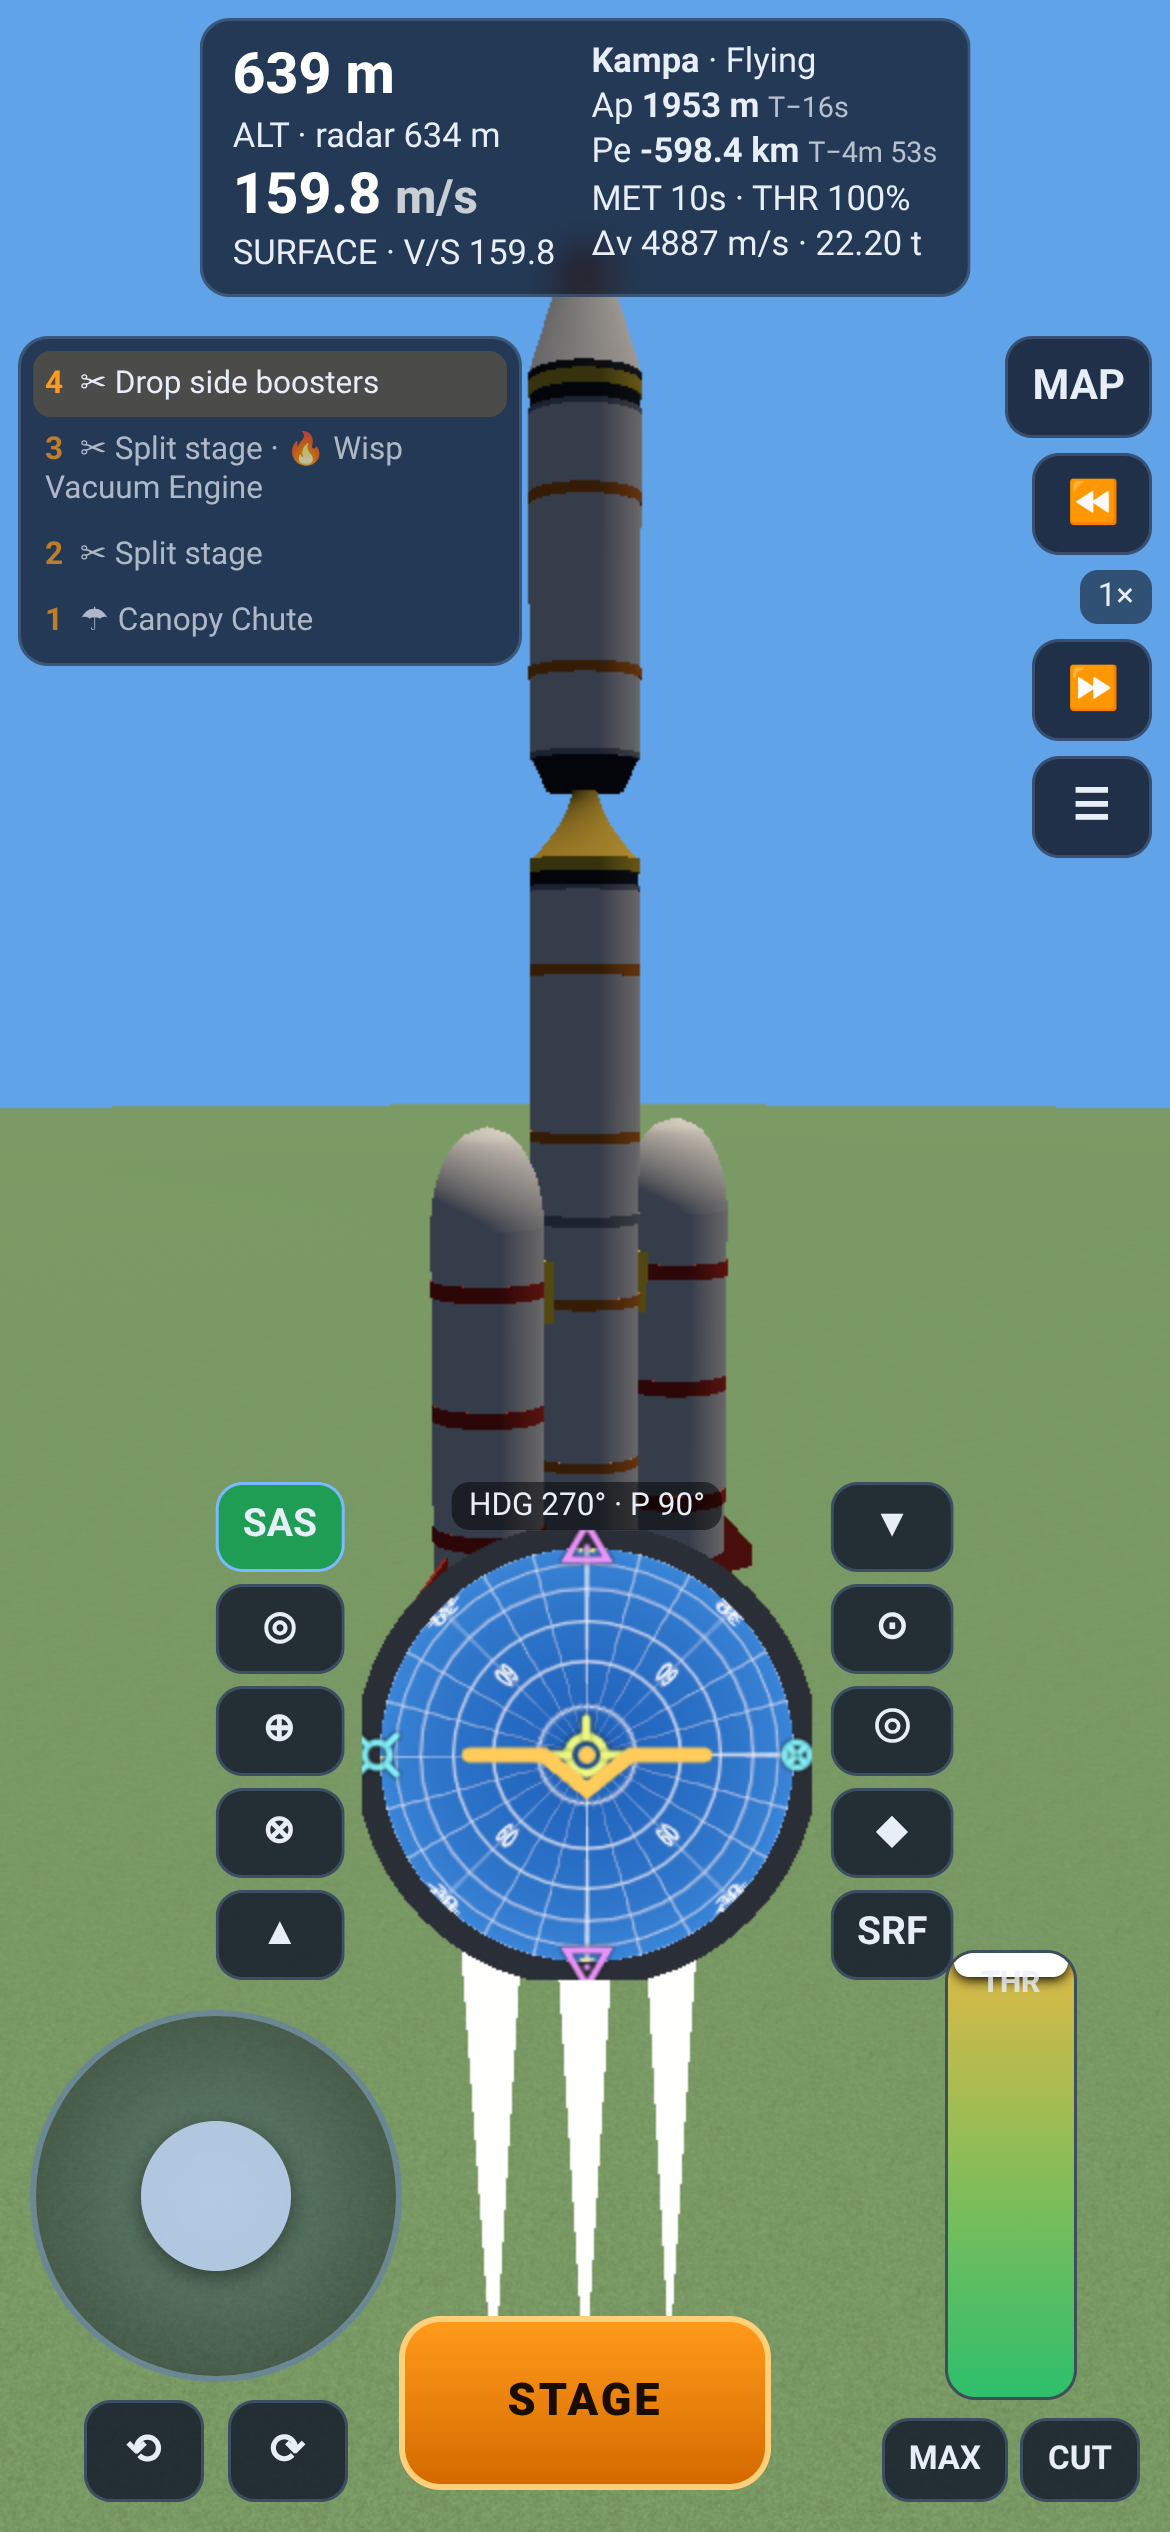
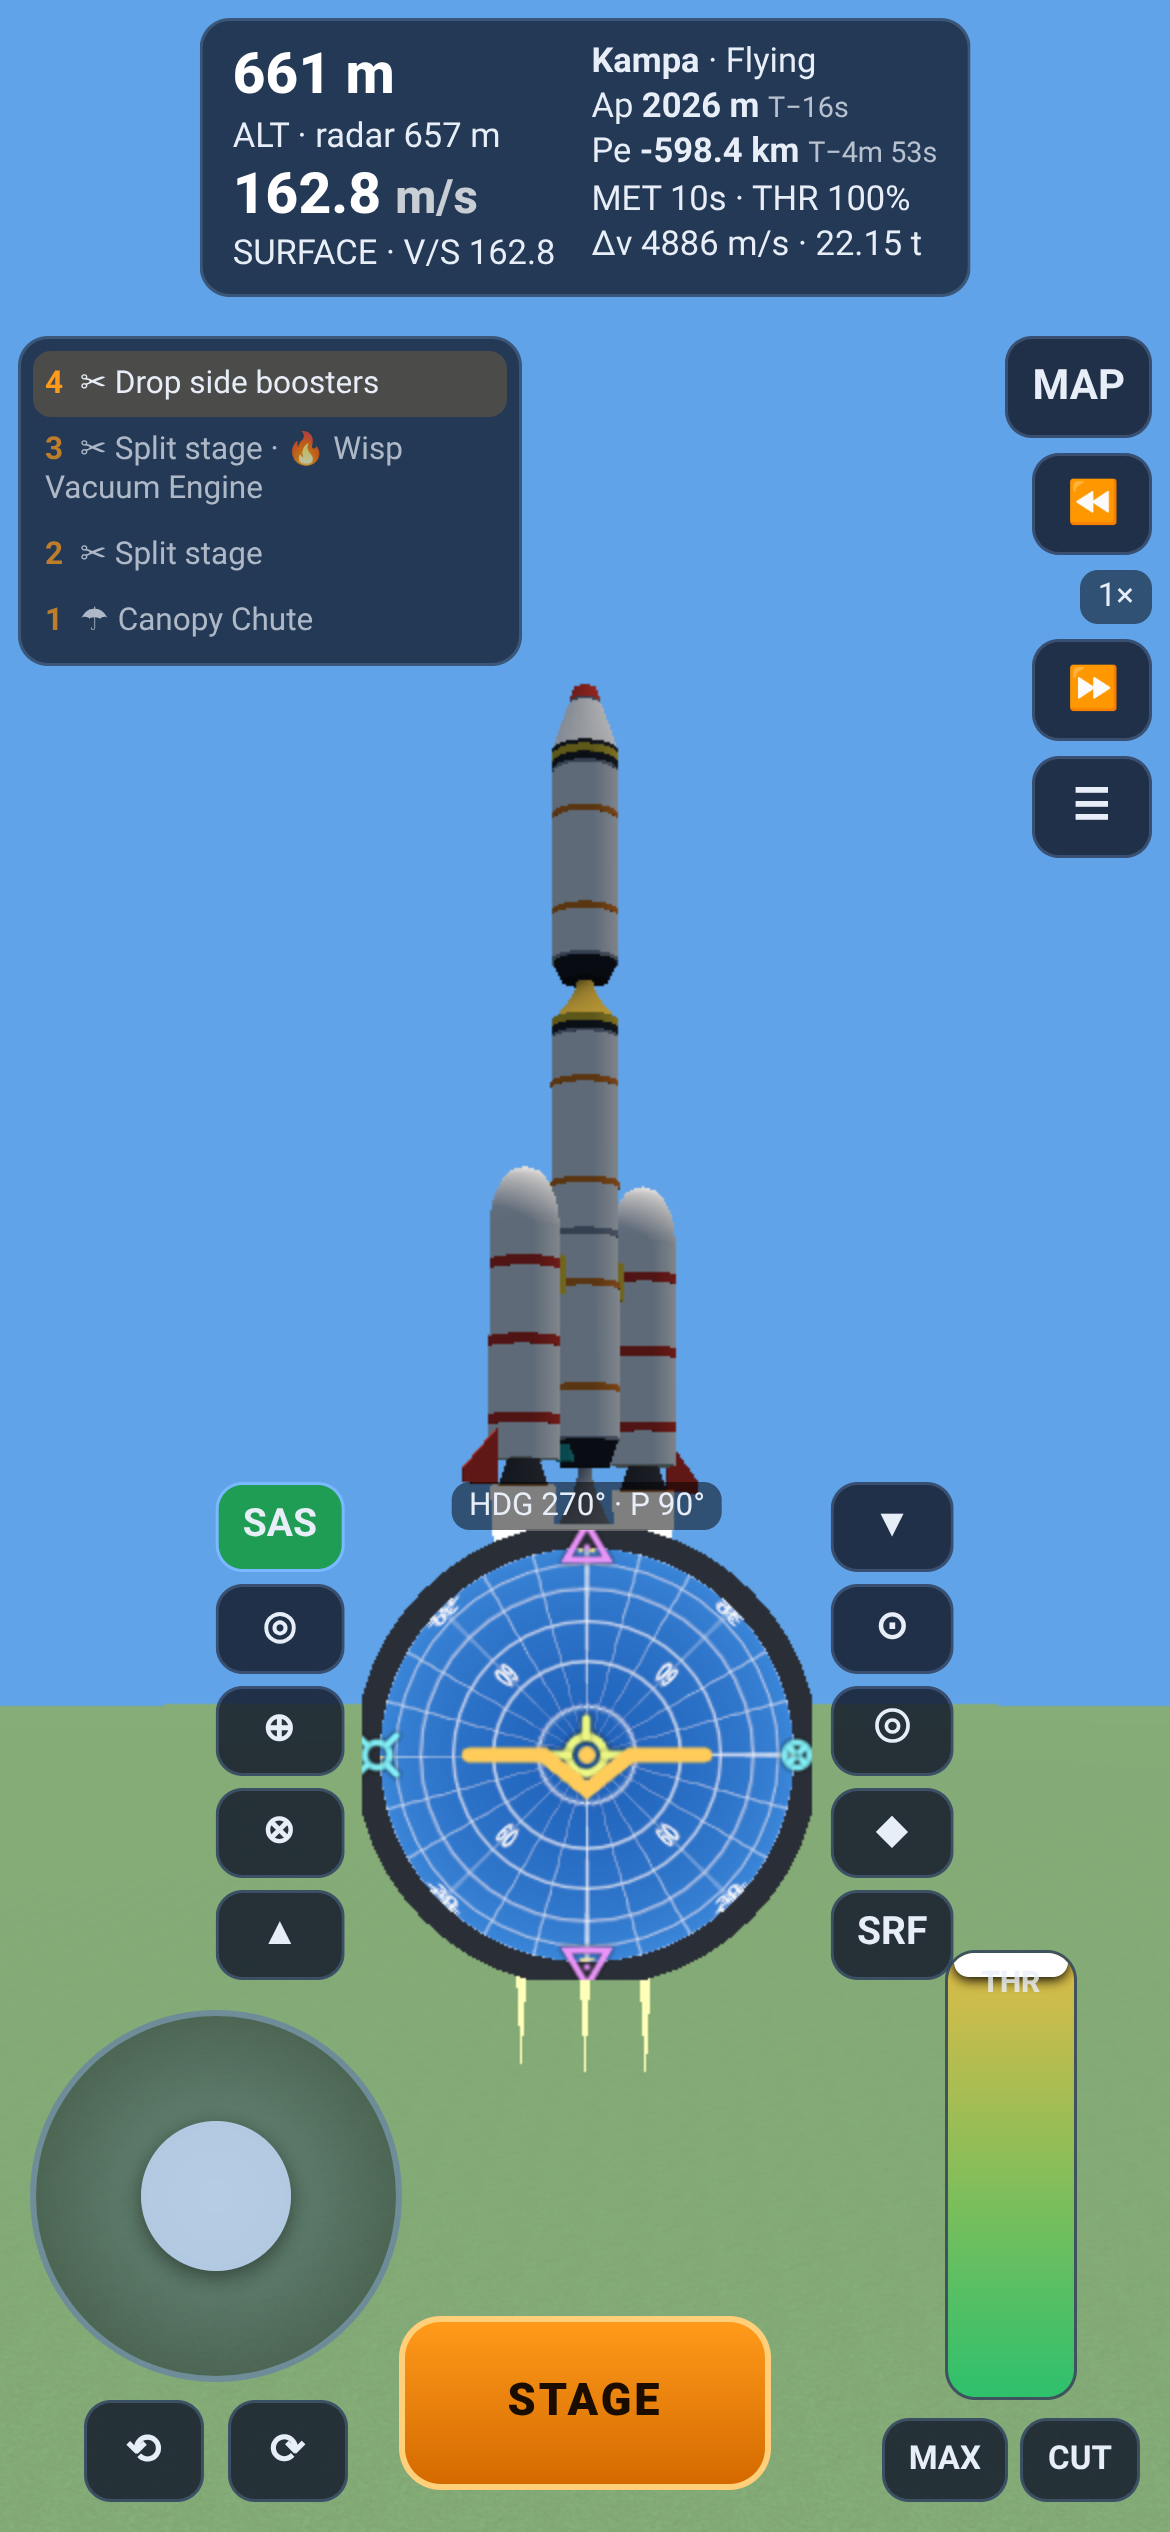
Node panel toggle, screenshots

diff --git a/js/flight.js b/js/flight.js
@@ -121,6 +121,7 @@ export class Flight {
     this.hud = el('div', 'ftop panel', '', ui);
     this.hudL = el('div', 'hcol', '', this.hud); this.hudR = el('div', 'hcol', '', this.hud);
     this.nodeHud = el('div', 'nodehud panel hidden', '', ui);
+    this.nodeHud.addEventListener('pointerdown', e => { e.stopPropagation(); this.nodePanelHidden = !this.nodePanelHidden; });
     this.stageBox = el('div', 'stagebox panel scrolly', '', ui);
     this.toastEl = el('div', 'toast hidden', '', ui);
     // bottom cluster
@@ -758,14 +759,14 @@ export class Flight {
       if (B.F > 0) { const ve = B.F / B.mdot; bt = this.mass * (1 - Math.exp(-Math.abs(dv) / ve)) / B.mdot; }
       const tt = this.node.t - this.t;
       this.nodeHud.classList.remove('hidden');
-      this.nodeHud.innerHTML = `◆ Node <b>T${tt >= 0 ? '−' : '+'}${fmtTime(Math.abs(tt))}</b> · Δv <b>${dv.toFixed(1)}</b> m/s · burn ${isFinite(bt) ? fmtTime(bt) : 'no thrust'}${isFinite(bt) && tt > 0 && tt < bt / 2 + 10 ? ' · <b class="warn">START BURN</b>' : ''}`;
+      this.nodeHud.innerHTML = `◆ Node ${this.map ? (this.nodePanelHidden ? '▸ ' : '▾ ') : ''}<b>T${tt >= 0 ? '−' : '+'}${fmtTime(Math.abs(tt))}</b> · Δv <b>${dv.toFixed(1)}</b> m/s · burn ${isFinite(bt) ? fmtTime(bt) : 'no thrust'}${isFinite(bt) && tt > 0 && tt < bt / 2 + 10 ? ' · <b class="warn">START BURN</b>' : ''}`;
       if (this.nodeVals) { this.nodeVals.pro.textContent = this.node.pro.toFixed(0); this.nodeVals.norm.textContent = this.node.norm.toFixed(0); this.nodeVals.rad.textContent = this.node.rad.toFixed(0); }
       const np = this.nodePatches; let info = '';
       if (np.length) { const e = np[0].el; info += `After burn: Ap ${e.ecc < 1 && np[0].end === 'closed' ? fmtDist(e.ra - np[0].body.radius) : '∞'} · Pe ${fmtDist(e.rp - np[0].body.radius)}`; }
       const enc = np.find((p, i) => i > 0 && p.body !== this.body);
       if (enc) info += `<br>→ ${enc.body.name}: Pe ${fmtDist(enc.el.rp - enc.body.radius)}${enc.end === 'impact' ? ' (impact!)' : ''}`;
       this.nodeInfo.innerHTML = info;
-      this.nodePanel.classList.toggle('hidden', !this.map);
+      this.nodePanel.classList.toggle('hidden', !this.map || !!this.nodePanelHidden);
     } else { this.nodeHud.classList.add('hidden'); this.nodePanel.classList.add('hidden'); }
     // navball
     const d = this.dirs(this.navFrame);

diff --git a/tests/ascent.js b/tests/ascent.js
@@ -2,7 +2,7 @@
 async (opts) => {
   const F = OF.flight, D = F.debug, log = [];
   const st = () => D.status();
-  D.throttle(1); D.stage();
+  D.throttle(1); if (F.prop.next === 0) D.stage();
   let phase = 'ascent', t0 = performance.now();
   for (let i = 0; i < 4000; i++) {
     const s = st();

diff --git a/tests/shots.py b/tests/shots.py
@@ -3,10 +3,14 @@ from playwright.async_api import async_playwright
 VIEWS = {'iphone-portrait': dict(viewport={'width':390,'height':844}, device_scale_factor=3, is_mobile=True, has_touch=True),
          'iphone-landscape': dict(viewport={'width':844,'height':390}, device_scale_factor=3, is_mobile=True, has_touch=True),
          'desktop': dict(viewport={'width':1440,'height':900}, device_scale_factor=1)}
-ONLY = sys.argv[1:] or list(VIEWS)
+ENGINE = 'chromium'
+args = sys.argv[1:]
+if args and args[0] == 'webkit': ENGINE = 'webkit'; args = args[1:]
+ONLY = args or list(VIEWS)
 async def run(p, name, kw, errs):
-    b = await p.chromium.launch(args=['--use-gl=angle','--use-angle=swiftshader','--enable-unsafe-swiftshader'])
-    pg = await b.new_page(**kw)
+    b = await (p.webkit.launch() if ENGINE == 'webkit' else p.chromium.launch(args=['--use-gl=angle','--use-angle=swiftshader','--enable-unsafe-swiftshader']))
+    if ENGINE == 'webkit': name = 'safari-' + name
+    pg = await (await b.new_context(**kw)).new_page()
     pg.on('pageerror', lambda e: errs.append(name+' PAGEERROR '+str(e)))
     pg.on('console', lambda m: errs.append(name+' '+m.type+' '+m.text) if m.type in ('error','warning') else None)
     await pg.goto('http://localhost:8765/'); await pg.wait_for_timeout(2500)
@@ -17,9 +21,9 @@ async def run(p, name, kw, errs):
     await shot('2-builder')
     await pg.evaluate("import('./js/craft.js').then(c=>OF.startFlight(c.clone(c.EXAMPLES[1])))"); await pg.wait_for_timeout(1500)
     await shot('3-pad')
-    await pg.evaluate("(()=>{const D=OF.flight.debug; D.throttle(1); D.stage(); D.point(90,90); D.simulate(7);})()"); await pg.wait_for_timeout(1200)
+    await pg.evaluate("(()=>{const D=OF.flight.debug; D.throttle(1); D.stage(); D.point(90,90); D.simulate(7); OF.flight.camState.dist=40; OF.flight.camState.pitch=-0.15;})()"); await pg.wait_for_timeout(1200)
     await shot('4-launch')
-    await pg.evaluate("(()=>{const D=OF.flight.debug; D.simulate(14);})()"); await pg.wait_for_timeout(1200)
+    await pg.evaluate("(()=>{const D=OF.flight.debug; D.point(80,90); D.simulate(14); OF.flight.camState.dist=45; OF.flight.camState.pitch=0.1;})()"); await pg.wait_for_timeout(1200)
     await shot('4b-ascent')
     r = await pg.evaluate(open('tests/ascent.js').read(), {'lead':30})
     await pg.evaluate("OF.flight.camState.pitch=0.35; OF.flight.camState.dist=22"); await pg.wait_for_timeout(1500)
